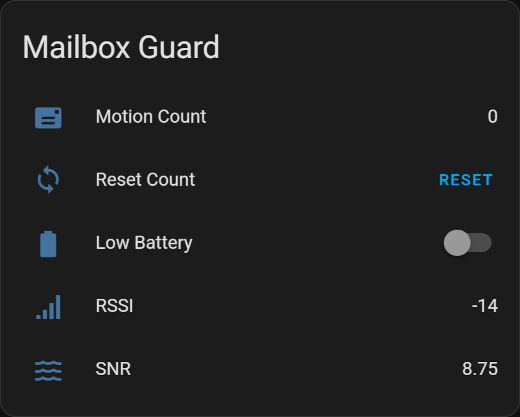
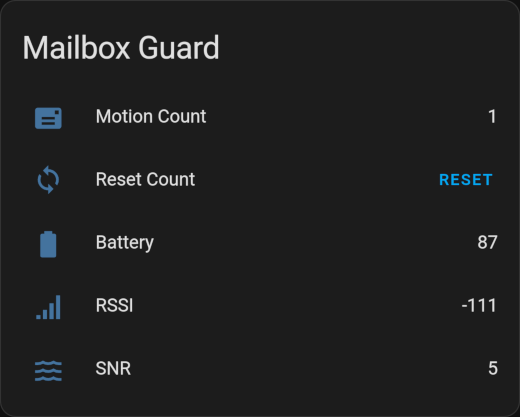
Add battery level to HARestAPI example

diff --git a/README.md b/README.md
@@ -257,6 +257,11 @@ input_number:
     min: 0
     max: 255
     icon: mdi:mail
+  mailbox_guard_battery:
+    name: Mailbox Guard Battery
+    min: 0
+    max: 100
+    icon: mdi:battery
   mailbox_guard_rssi:
     name: Mailbox Guard RSSI
     min: -196
@@ -304,6 +309,9 @@ input_number:
     - service: notify.notify
       data:
         message: Mailbox Guard Low Battery!
+    - service: input_boolean.turn_off
+      data:
+        entity_id: input_boolean.mailbox_guard_low_battery
   mode: single
 ```
 
@@ -330,8 +338,12 @@ entities:
       data:
         entity_id: input_number.mailbox_guard_count
         value: 0
-  - entity: input_boolean.mailbox_guard_low_battery
-    name: Low Battery
+  - type: conditional
+    conditions: []
+    row:
+      type: sensor-entity
+      entity: input_number.mailbox_guard_battery
+      name: Battery
   - type: conditional
     conditions: []
     row:
